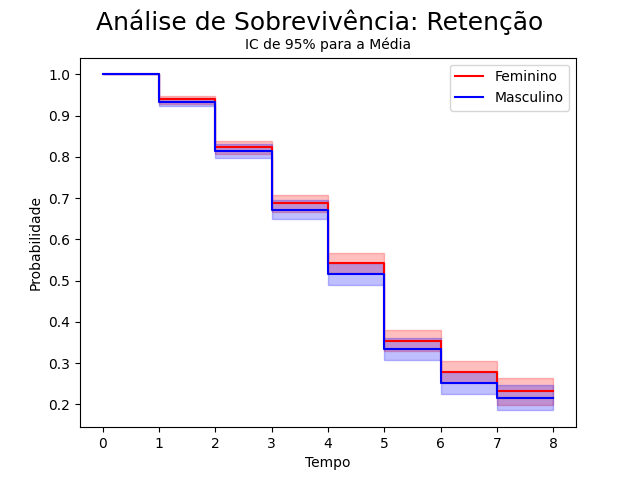
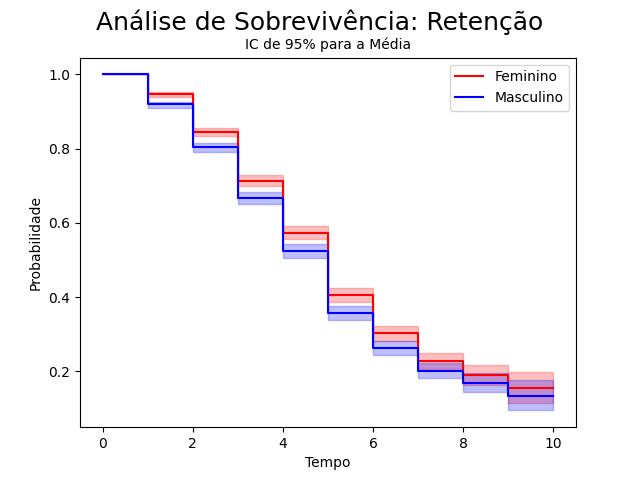
adaptação para trancado

diff --git a/generate_mc.py b/generate_mc.py
@@ -2,198 +2,137 @@ import pandas as pd
 import numpy as np
 from markov_diagram import Diagram
 
-#Alterar aqui parametros para gerar matriz
-nomeArquivo = "matrix/matrixM.csv"
+# Alterar aqui parametros para gerar matriz
+nomeArquivo = "matrix/matrixF.csv"
 taxaRetencao = 1.0
 taxaEvasao = 1.0
 taxaEvasaoR = 1.0
 taxaTrancar = 1.0
 taxaTrancarR = 1.0
-taxaVoltar = 1.0
-taxaVoltarR = 1.0
 taxaProporcaoEvasao = 1.75
-taxaProporcaoTrancar = 2.0
-taxaProporcaoVoltar = 1.0
-
-# Probabilidade dos estados
-# Com Trancar
-# # A1
-# A1toT = 0.1 * taxaTrancar
-# A1toA1R = 0.25 * taxaRetencao
-# A1toE = 0.12 * taxaEvasao
-# A1toA2 = 1 - A1toA1R - A1toE - A1toT
-# TtoA1 = 0.03 * taxaVoltar
-#
-# # A1R
-# A1RtoT = A1toT * taxaTrancarR * taxaProporcaoTrancar
-# A1RtoE = A1toE * taxaEvasaoR * taxaProporcaoEvasao
-# A1RtoA2R = 1 - A1RtoE - A1RtoT
-# TtoA1R = 0.02 * taxaVoltar
-#
-# # A2
-# A2toT = 0.08 * taxaTrancar
-# A2toA2R = 0.3 * taxaRetencao
-# A2toE = 0.08 * taxaEvasao
-# A2toA3 = 1 - A2toA2R - A2toE - A2toT
-# TtoA2 = 0.03 * taxaVoltar
-#
-# # A2R
-# A2RtoT = A2toT * taxaTrancarR * taxaProporcaoTrancar
-# A2RtoE = A2toE * taxaEvasaoR * taxaProporcaoEvasao
-# A2RtoA3R = 1 - A2RtoE - A2RtoT
-# TtoA2R = 0.02 * taxaVoltar
-#
-# # A3
-# A3toT = 0.04 * taxaTrancar
-# A3toA3R = 0.2 * taxaRetencao
-# A3toE = 0.1 * taxaEvasao
-# A3toA4 = 1 - A3toA3R - A3toE - A3toT
-# TtoA3 = 0.03 * taxaVoltar
-#
-# # A3R
-# A3RtoT = A3toT * taxaTrancarR * taxaProporcaoTrancar
-# A3RtoE = A3toE * taxaEvasaoR * taxaProporcaoEvasao
-# A3RtoA4R = 1 - A3RtoE - A3RtoT
-# TtoA3R = 0.02 * taxaVoltar
-#
-# # A4
-# A4toT = 0.05 * taxaTrancar
-# A4toA4R = 0.15 * taxaRetencao
-# A4toE = 0.06 * taxaEvasao
-# A4toA5 = 1 - A4toA4R - A4toE - A4toT
-# TtoA4 = 0.03 * taxaVoltar
-#
-# # A4R
-# A4RtoT = A4toT * taxaTrancarR * taxaProporcaoTrancar
-# A4RtoE = A4toE * taxaEvasaoR * taxaProporcaoEvasao
-# A4RtoA5R = 1 - A4RtoE - A4RtoT
-# TtoA4R = 0.02 * taxaVoltar
-#
-# # A5
-# A5toT = 0.02 * taxaTrancar
-# A5toA5R = 0.2 * taxaRetencao
-# A5toE = 0.03 * taxaEvasao
-# A5toG = 1 - A5toA5R - A5toE - A5toT
-# TtoA5 = 0.03 * taxaVoltar
-#
-# # A5R
-# A5RtoT = A5toT * taxaTrancarR * taxaProporcaoTrancar
-# A5RtoE = A5toE * taxaEvasaoR * taxaProporcaoEvasao
-# A5RtoG = 1 - A5RtoE - A5RtoT
-# TtoA5R = 0.02 * taxaVoltar
-#
-# # T
-# TtoT = 0.6
-# TtoE = 0.15
+taxaProporcaoTrancar = 1.5
 
 
-# Com mais anos e sem Trancar
+# T - representado por self loop
+A1T = 0.06 * taxaTrancar
+A1RT = A1T * taxaTrancarR * taxaProporcaoTrancar
+A2T = 0.05 * taxaTrancar
+A2RT = A2T * taxaTrancarR * taxaProporcaoTrancar
+A3T = 0.04 * taxaTrancar
+A3RT = A3T * taxaTrancarR * taxaProporcaoTrancar
+A4T = 0.03 * taxaTrancar
+A4RT = A4T * taxaTrancarR * taxaProporcaoTrancar
+A5T = 0.02 * taxaTrancar
+A5RT = A5T * taxaTrancarR * taxaProporcaoTrancar
+A6RT = 0.01 * taxaTrancarR
+A7RT = 0.01 * taxaTrancarR
+
+
 # A1
 A1toA1R = 0.25 * taxaRetencao
 A1toE = 0.12 * taxaEvasao
-A1toA2 = 1 - A1toA1R - A1toE
+# A1toA2 = 1 - A1toA1R - A1toE
+A1toA2 = 1 - A1toA1R - A1toE - A1T
 
 # A1R
 A1RtoE = A1toE * taxaEvasaoR * taxaProporcaoEvasao
-A1RtoA2R = 1 - A1RtoE
+# A1RtoA2R = 1 - A1RtoE
+A1RtoA2R = 1 - A1RtoE - A1RT
 
 # A2
 A2toA2R = 0.3 * taxaRetencao
 A2toE = 0.08 * taxaEvasao
-A2toA3 = 1 - A2toA2R - A2toE
+# A2toA3 = 1 - A2toA2R - A2toE
+A2toA3 = 1 - A2toA2R - A2toE - A2T
 
 # A2R
 A2RtoE = A2toE * taxaEvasaoR * taxaProporcaoEvasao
-A2RtoA3R = 1 - A2RtoE
+# A2RtoA3R = 1 - A2RtoE
+A2RtoA3R = 1 - A2RtoE - A2RT
 
 # A3
 A3toA3R = 0.2 * taxaRetencao
 A3toE = 0.1 * taxaEvasao
-A3toA4 = 1 - A3toA3R - A3toE
+# A3toA4 = 1 - A3toA3R - A3toE
+A3toA4 = 1 - A3toA3R - A3toE - A3T
 
 # A3R
 A3RtoE = A3toE * taxaEvasaoR * taxaProporcaoEvasao
-A3RtoA4R = 1 - A3RtoE
+# A3RtoA4R = 1 - A3RtoE
+A3RtoA4R = 1 - A3RtoE - A3RT
 
 # A4
 A4toA4R = 0.15 * taxaRetencao
 A4toE = 0.06 * taxaEvasao
-A4toA5 = 1 - A4toA4R - A4toE
+# A4toA5 = 1 - A4toA4R - A4toE
+A4toA5 = 1 - A4toA4R - A4toE - A4T
 
 # A4R
 A4RtoE = A4toE * taxaEvasaoR * taxaProporcaoEvasao
-A4RtoA5R = 1 - A4RtoE
+# A4RtoA5R = 1 - A4RtoE
+A4RtoA5R = 1 - A4RtoE - A4RT
 
 # A5
 A5toA5R = 0.2 * taxaRetencao
 A5toE = 0.03 * taxaEvasao
-A5toG = 1 - A5toA5R - A5toE
+# A5toG = 1 - A5toA5R - A5toE
+A5toG = 1 - A5toA5R - A5toE - A5T
 
 # A5R
 A5RtoA6R = 0.3
 A5RtoE = A5toE * taxaEvasaoR * taxaProporcaoEvasao
-A5RtoG = 1 - A5RtoA6R - A5RtoE
+# A5RtoG = 1 - A5RtoA6R - A5RtoE
+A5RtoG = 1 - A5RtoA6R - A5RtoE - A5RT
 
 # A6R
 A6RtoA7R = 0.2
 A6RtoE = 0.03 * taxaEvasaoR
-A6RtoG = 1 - A6RtoE - A6RtoA7R
+# A6RtoG = 1 - A6RtoE - A6RtoA7R
+A6RtoG = 1 - A6RtoE - A6RtoA7R - A6RT
 
 # A7R
 A7RtoE = 0.02 * taxaEvasaoR
-A7RtoG = 1 - A7RtoE
+# A7RtoG = 1 - A7RtoE
+A7RtoG = 1 - A7RtoE - A7RT
 
 progres = [A1toA2, A2toA3, A3toA4, A4toA5, A5toG, A1RtoA2R, A2RtoA3R, A3RtoA4R, A4RtoA5R, A5RtoG]
 ret = [A1toA1R, A2toA2R, A3toA3R, A4toA4R, A5toA5R]
 # tranc = [A1toT, A2toT, A3toT, A4toT, A5toT, A1RtoT, A2RtoT, A3RtoT, A4RtoT, A5RtoT]
 
-# states = ['A1', 'A2', 'A3', 'A4', 'A5', 'A1R', 'A2R', 'A3R', 'A4R', 'A5R', 'T', 'G', 'E']
-# state = np.array([[1, 0, 0, 0, 0, 0, 0, 0, 0, 0, 0, 0, 0]])
-# p = [[0.0, A1toA2, 0.0, 0.0, 0.0, A1toA1R, 0.0, 0.0, 0.0, 0.0, A1toT, 0.0, A1toE],
-#      [0.0, 0.0, A2toA3, 0.0, 0.0, 0.0, A2toA2R, 0.0, 0.0, 0.0, A2toT, 0.0, A2toE],
-#      [0.0, 0.0, 0.0, A3toA4, 0.0, 0.0, 0.0, A3toA3R, 0.0, 0.0, A3toT, 0.0, A3toE],
-#      [0.0, 0.0, 0.0, 0.0, A4toA5, 0.0, 0.0, 0.0, A4toA4R, 0.0, A4toT, 0.0, A4toE],
-#      [0.0, 0.0, 0.0, 0.0, 0.0, 0.0, 0.0, 0.0, 0.0, A5toA5R, A5toT, A5toG, A5toE],
-#      [0.0, 0.0, 0.0, 0.0, 0.0, 0.0, A1RtoA2R, 0.0, 0.0, 0.0, A1RtoT, 0.0, A1RtoE],
-#      [0.0, 0.0, 0.0, 0.0, 0.0, 0.0, 0.0, A2RtoA3R, 0.0, 0.0, A2RtoT, 0.0, A2RtoE],
-#      [0.0, 0.0, 0.0, 0.0, 0.0, 0.0, 0.0, 0.0, A3RtoA4R, 0.0, A3RtoT, 0.0, A3RtoE],
-#      [0.0, 0.0, 0.0, 0.0, 0.0, 0.0, 0.0, 0.0, 0.0, A4RtoA5R, A4RtoT, 0.0, A4RtoE],
-#      [0.0, 0.0, 0.0, 0.0, 0.0, 0.0, 0.0, 0.0, 0.0, 0.0, A5RtoT, A5RtoG, A5RtoE],
-#      [TtoA1, TtoA2, TtoA3, TtoA4, TtoA5, TtoA1R, TtoA2R, TtoA3R, TtoA4R, TtoA5R, TtoT, 0.0, TtoE],
-#      [0.0, 0.0, 0.0, 0.0, 0.0, 0.0, 0.0, 0.0, 0.0, 0.0, 0.0, 1.0, 0.0],
-#      [0.0, 0.0, 0.0, 0.0, 0.0, 0.0, 0.0, 0.0, 0.0, 0.0, 0.0, 0.0, 1.0]]
+# states = ['A1', 'A2', 'A3', 'A4', 'A5', 'A1R', 'A2R', 'A3R', 'A4R', 'A5R', 'A6R', 'A7R', 'G', 'E']
+# state = np.array([[1, 0, 0, 0, 0, 0, 0, 0, 0, 0, 0, 0, 0, 0]])
+# p = [[0.0, A1toA2, 0.0, 0.0, 0.0, A1toA1R, 0.0, 0.0, 0.0, 0.0, 0.0, 0.0, 0.0, A1toE],
+#      [0.0, 0.0, A2toA3, 0.0, 0.0, 0.0, A2toA2R, 0.0, 0.0, 0.0, 0.0, 0.0, 0.0, A2toE],
+#      [0.0, 0.0, 0.0, A3toA4, 0.0, 0.0, 0.0, A3toA3R, 0.0, 0.0, 0.0, 0.0, 0.0, A3toE],
+#      [0.0, 0.0, 0.0, 0.0, A4toA5, 0.0, 0.0, 0.0, A4toA4R, 0.0, 0.0, 0.0, 0.0, A4toE],
+#      [0.0, 0.0, 0.0, 0.0, 0.0, 0.0, 0.0, 0.0, 0.0, A5toA5R, 0.0, 0.0, A5toG, A5toE],
+#      [0.0, 0.0, 0.0, 0.0, 0.0, 0.0, A1RtoA2R, 0.0, 0.0, 0.0, 0.0, 0.0, 0.0, A1RtoE],
+#      [0.0, 0.0, 0.0, 0.0, 0.0, 0.0, 0.0, A2RtoA3R, 0.0, 0.0, 0.0, 0.0, 0.0, A2RtoE],
+#      [0.0, 0.0, 0.0, 0.0, 0.0, 0.0, 0.0, 0.0, A3RtoA4R, 0.0, 0.0, 0.0, 0.0, A3RtoE],
+#      [0.0, 0.0, 0.0, 0.0, 0.0, 0.0, 0.0, 0.0, 0.0, A4RtoA5R, 0.0, 0.0, 0.0, A4RtoE],
+#      [0.0, 0.0, 0.0, 0.0, 0.0, 0.0, 0.0, 0.0, 0.0, 0.0, A5RtoA6R, 0.0, A5RtoG, A5RtoE],
+#      [0.0, 0.0, 0.0, 0.0, 0.0, 0.0, 0.0, 0.0, 0.0, 0.0, 0.0, A6RtoA7R, A6RtoG, A6RtoE],
+#      [0.0, 0.0, 0.0, 0.0, 0.0, 0.0, 0.0, 0.0, 0.0, 0.0, 0.0, 0.0, A7RtoG, A7RtoE],
+#      [0.0, 0.0, 0.0, 0.0, 0.0, 0.0, 0.0, 0.0, 0.0, 0.0, 0.0, 0.0, 1.0, 0.0],
+#      [0.0, 0.0, 0.0, 0.0, 0.0, 0.0, 0.0, 0.0, 0.0, 0.0, 0.0, 0.0, 0.0, 1.0]]
 
+# Com trancamento
 states = ['A1', 'A2', 'A3', 'A4', 'A5', 'A1R', 'A2R', 'A3R', 'A4R', 'A5R', 'A6R', 'A7R', 'G', 'E']
 state = np.array([[1, 0, 0, 0, 0, 0, 0, 0, 0, 0, 0, 0, 0, 0]])
-p = [[0.0, A1toA2, 0.0, 0.0, 0.0, A1toA1R, 0.0, 0.0, 0.0, 0.0, 0.0, 0.0, 0.0, A1toE],
-     [0.0, 0.0, A2toA3, 0.0, 0.0, 0.0, A2toA2R, 0.0, 0.0, 0.0, 0.0, 0.0, 0.0, A2toE],
-     [0.0, 0.0, 0.0, A3toA4, 0.0, 0.0, 0.0, A3toA3R, 0.0, 0.0, 0.0, 0.0, 0.0, A3toE],
-     [0.0, 0.0, 0.0, 0.0, A4toA5, 0.0, 0.0, 0.0, A4toA4R, 0.0, 0.0, 0.0, 0.0, A4toE],
-     [0.0, 0.0, 0.0, 0.0, 0.0, 0.0, 0.0, 0.0, 0.0, A5toA5R, 0.0, 0.0, A5toG, A5toE],
-     [0.0, 0.0, 0.0, 0.0, 0.0, 0.0, A1RtoA2R, 0.0, 0.0, 0.0, 0.0, 0.0, 0.0, A1RtoE],
-     [0.0, 0.0, 0.0, 0.0, 0.0, 0.0, 0.0, A2RtoA3R, 0.0, 0.0, 0.0, 0.0, 0.0, A2RtoE],
-     [0.0, 0.0, 0.0, 0.0, 0.0, 0.0, 0.0, 0.0, A3RtoA4R, 0.0, 0.0, 0.0, 0.0, A3RtoE],
-     [0.0, 0.0, 0.0, 0.0, 0.0, 0.0, 0.0, 0.0, 0.0, A4RtoA5R, 0.0, 0.0, 0.0, A4RtoE],
-     [0.0, 0.0, 0.0, 0.0, 0.0, 0.0, 0.0, 0.0, 0.0, 0.0, A5RtoA6R, 0.0, A5RtoG, A5RtoE],
-     [0.0, 0.0, 0.0, 0.0, 0.0, 0.0, 0.0, 0.0, 0.0, 0.0, 0.0, A6RtoA7R, A6RtoG, A6RtoE],
-     [0.0, 0.0, 0.0, 0.0, 0.0, 0.0, 0.0, 0.0, 0.0, 0.0, 0.0, 0.0, A7RtoG, A7RtoE],
+p = [[A1T, A1toA2, 0.0, 0.0, 0.0, A1toA1R, 0.0, 0.0, 0.0, 0.0, 0.0, 0.0, 0.0, A1toE],
+     [0.0, A2T, A2toA3, 0.0, 0.0, 0.0, A2toA2R, 0.0, 0.0, 0.0, 0.0, 0.0, 0.0, A2toE],
+     [0.0, 0.0, A3T, A3toA4, 0.0, 0.0, 0.0, A3toA3R, 0.0, 0.0, 0.0, 0.0, 0.0, A3toE],
+     [0.0, 0.0, 0.0, A4T, A4toA5, 0.0, 0.0, 0.0, A4toA4R, 0.0, 0.0, 0.0, 0.0, A4toE],
+     [0.0, 0.0, 0.0, 0.0, A5T, 0.0, 0.0, 0.0, 0.0, A5toA5R, 0.0, 0.0, A5toG, A5toE],
+     [0.0, 0.0, 0.0, 0.0, 0.0, A1RT, A1RtoA2R, 0.0, 0.0, 0.0, 0.0, 0.0, 0.0, A1RtoE],
+     [0.0, 0.0, 0.0, 0.0, 0.0, 0.0, A2RT, A2RtoA3R, 0.0, 0.0, 0.0, 0.0, 0.0, A2RtoE],
+     [0.0, 0.0, 0.0, 0.0, 0.0, 0.0, 0.0, A3RT, A3RtoA4R, 0.0, 0.0, 0.0, 0.0, A3RtoE],
+     [0.0, 0.0, 0.0, 0.0, 0.0, 0.0, 0.0, 0.0, A4RT, A4RtoA5R, 0.0, 0.0, 0.0, A4RtoE],
+     [0.0, 0.0, 0.0, 0.0, 0.0, 0.0, 0.0, 0.0, 0.0, A5RT, A5RtoA6R, 0.0, A5RtoG, A5RtoE],
+     [0.0, 0.0, 0.0, 0.0, 0.0, 0.0, 0.0, 0.0, 0.0, 0.0, A6RT, A6RtoA7R, A6RtoG, A6RtoE],
+     [0.0, 0.0, 0.0, 0.0, 0.0, 0.0, 0.0, 0.0, 0.0, 0.0, 0.0, A7RT, A7RtoG, A7RtoE],
      [0.0, 0.0, 0.0, 0.0, 0.0, 0.0, 0.0, 0.0, 0.0, 0.0, 0.0, 0.0, 1.0, 0.0],
      [0.0, 0.0, 0.0, 0.0, 0.0, 0.0, 0.0, 0.0, 0.0, 0.0, 0.0, 0.0, 0.0, 1.0]]
-
-# states = ['A1', 'A2', 'A3', 'A4', 'A5', 'A1R', 'A2R', 'A3R', 'A4R', 'A5R', 'G', 'E']
-# state = np.array([[1, 0, 0, 0, 0, 0, 0, 0, 0, 0, 0, 0]])
-# p = [[0.0, A1toA2, 0.0, 0.0, 0.0, A1toA1R, 0.0, 0.0, 0.0, 0.0, 0.0, A1toE],
-#      [0.0, 0.0, A2toA3, 0.0, 0.0, 0.0, A2toA2R, 0.0, 0.0, 0.0, 0.0, A2toE],
-#      [0.0, 0.0, 0.0, A3toA4, 0.0, 0.0, 0.0, A3toA3R, 0.0, 0.0, 0.0, A3toE],
-#      [0.0, 0.0, 0.0, 0.0, A4toA5, 0.0, 0.0, 0.0, A4toA4R, 0.0, 0.0, A4toE],
-#      [0.0, 0.0, 0.0, 0.0, 0.0, 0.0, 0.0, 0.0, 0.0, A5toA5R, A5toG, A5toE],
-#      [0.0, 0.0, 0.0, 0.0, 0.0, 0.0, A1RtoA2R, 0.0, 0.0, 0.0, 0.0, A1RtoE],
-#      [0.0, 0.0, 0.0, 0.0, 0.0, 0.0, 0.0, A2RtoA3R, 0.0, 0.0, 0.0, A2RtoE],
-#      [0.0, 0.0, 0.0, 0.0, 0.0, 0.0, 0.0, 0.0, A3RtoA4R, 0.0, 0.0, A3RtoE],
-#      [0.0, 0.0, 0.0, 0.0, 0.0, 0.0, 0.0, 0.0, 0.0, A4RtoA5R, 0.0, A4RtoE],
-#      [0.0, 0.0, 0.0, 0.0, 0.0, 0.0, 0.0, 0.0, 0.0, 0.0, A5RtoG, A5RtoE],
-#      [0.0, 0.0, 0.0, 0.0, 0.0, 0.0, 0.0, 0.0, 0.0, 0.0, 1.0, 0.0],
-#      [0.0, 0.0, 0.0, 0.0, 0.0, 0.0, 0.0, 0.0, 0.0, 0.0, 0.0, 1.0]]
 
 # states = ['Y1', 'Y2', 'Y3', 'Y4', 'I', 'G', 'W']
 # state = np.array([[1, 0, 0, 0, 0, 0, 0]])

diff --git a/simulation.py b/simulation.py
@@ -110,7 +110,7 @@ def Simu(quantAlunos, matriz):
         estados = np.zeros((a.nb_state,), dtype=int)
         count = 0
         for estado in arr:
-            if estado == 'T' and count < a.nb_state - 1:
+            if estado == 'T':
                 estados[count] = 1
             count += 1
         event_observedT = np.concatenate((event_observedT, estados))
@@ -124,7 +124,7 @@ def Simu(quantAlunos, matriz):
         estados = np.zeros((a.nb_state,), dtype=int)
         count = 0
         for estado in arr:
-            if 'R' in estado and count < a.nb_state - 1:
+            if 'R' in estado:
                 estados[count] = 1
             count += 1
         event_observedR = np.concatenate((event_observedR, estados))
@@ -148,7 +148,7 @@ def Simu(quantAlunos, matriz):
 
 
 
-quantAlunos = 500
+quantAlunos = 1000
 
 
 # Simulação por Gênero
